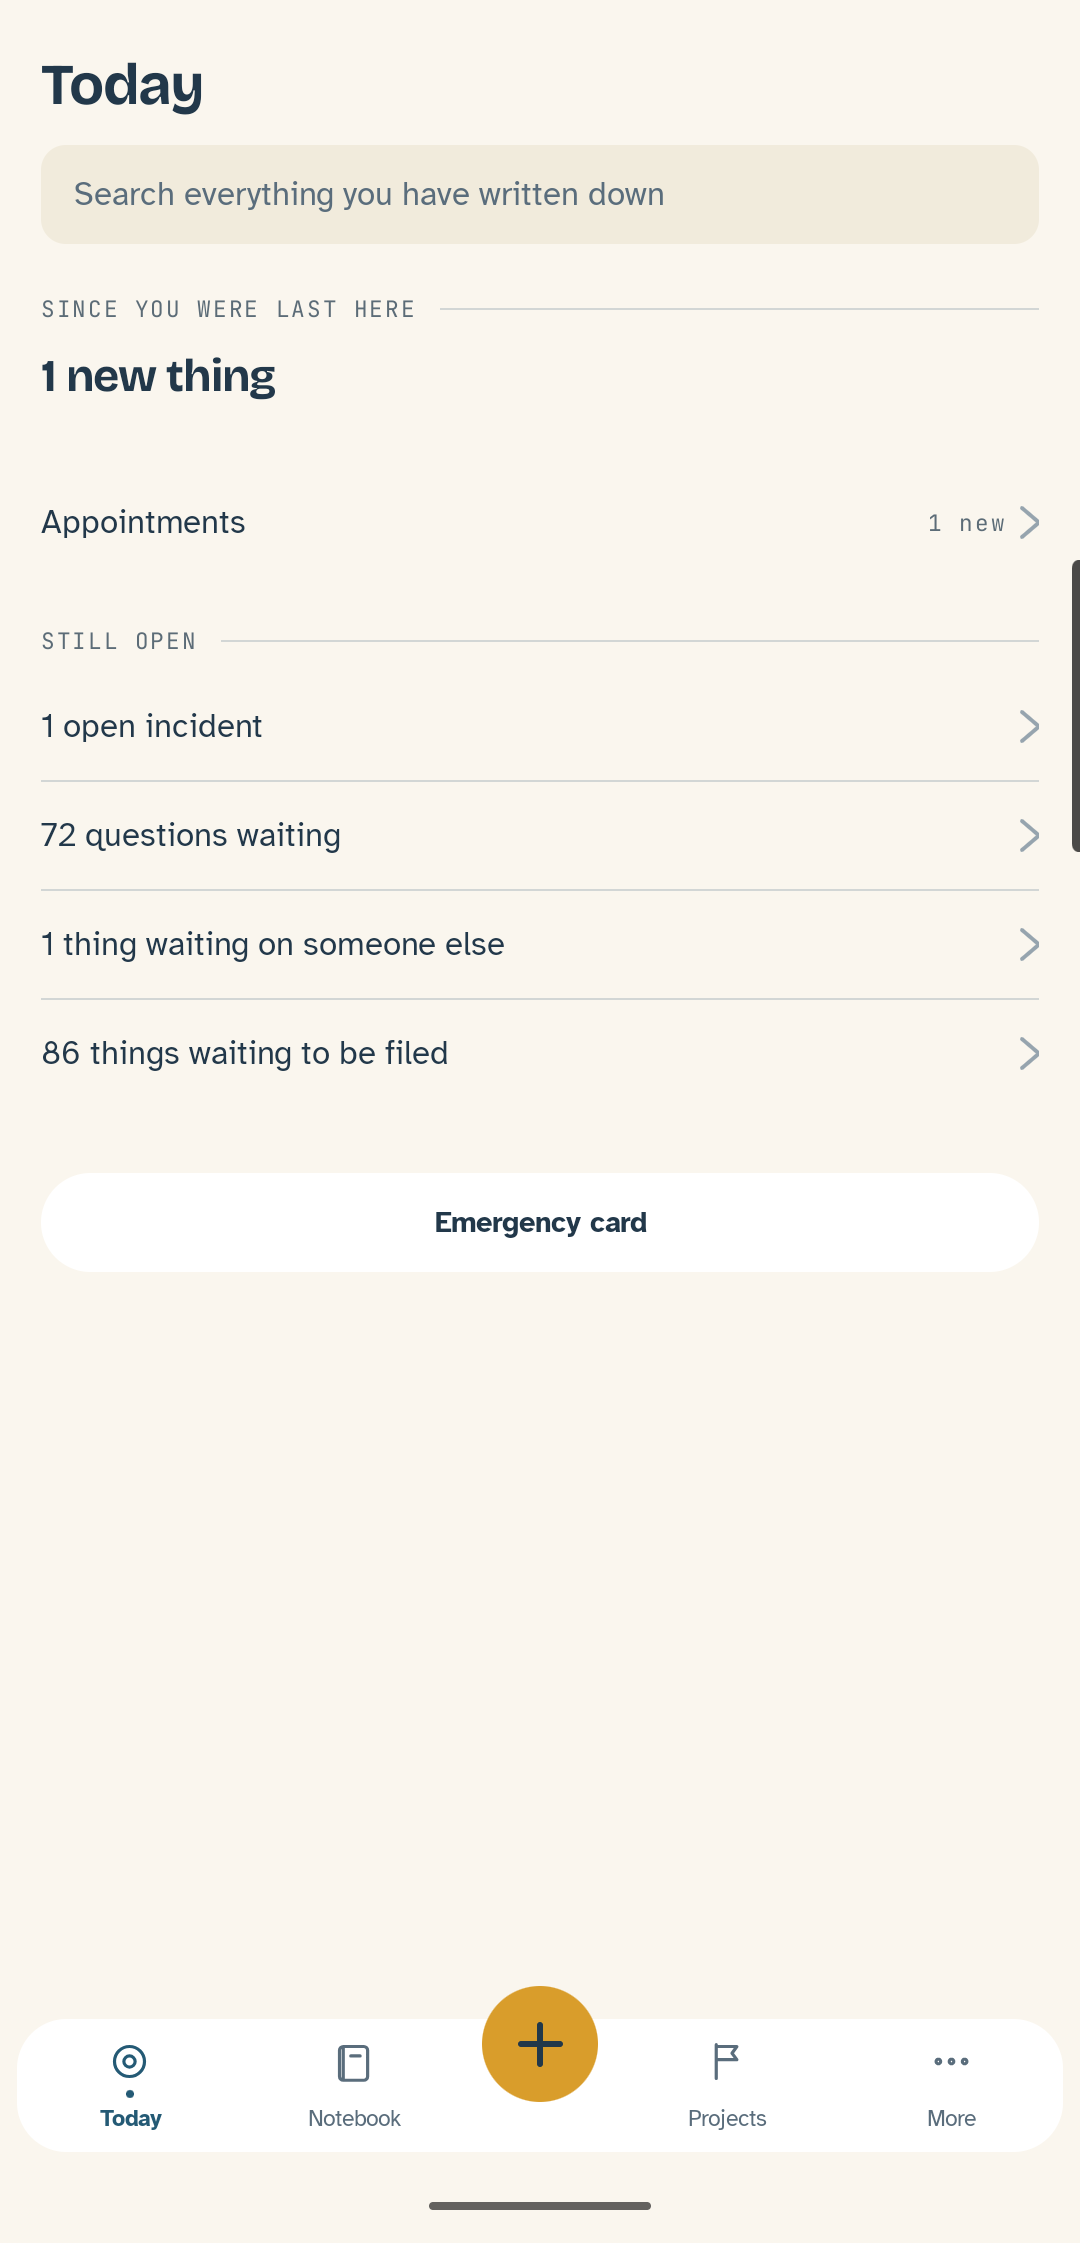
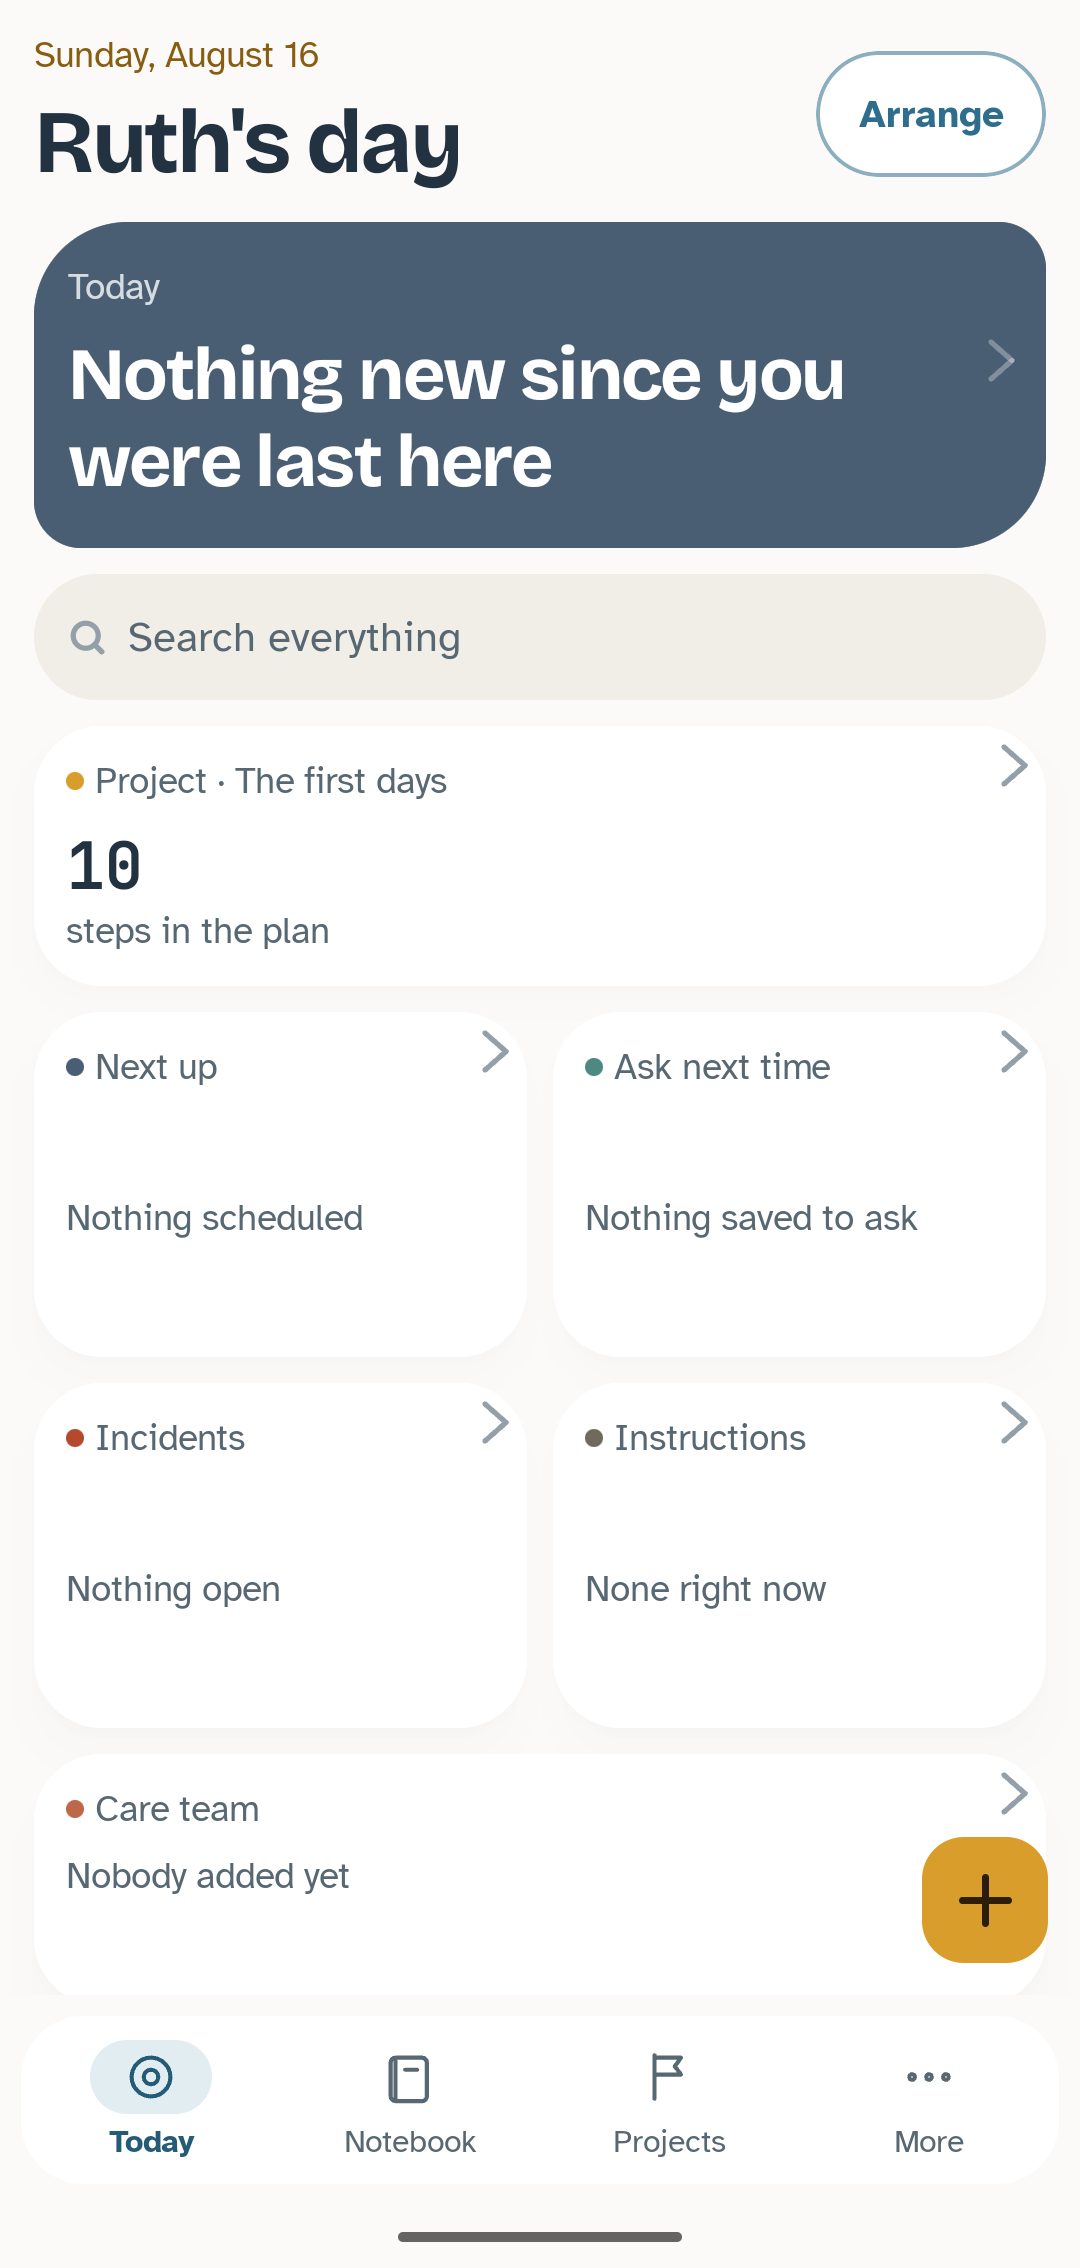
The lead is one saturated block and everything under it goes quiet
D172. The mockups were approved and then not consulted, and three rounds
of guessing followed. Read back against them, the differences were
structural rather than fine.

The lead is the section base with white type on it, not a pale wash.
D170 argued a saturated fill would cost readability; that was reasoned
rather than looked at, and the approved hero is a solid block precisely
because of it. White on slate is past 7:1, better than the ink on wash it
replaces. The eighteen call sites inside the answer body flip by
providing a recolored palette for the subtree instead, since the colors
are already a composition local, so the chart line and the dial pill come
along without learning about the hero.

One saturated block is also what fixes the rainbow: six tinted cards of
equal weight gave the eye nowhere to land, so the tint belongs to
whichever card leads and the rest are white with a small hue dot.

Gold does not survive at that size. It is an accent, correct on a chip,
an icon and the capture button, and a mustard slab across the largest
block on the screen. A whole-app card promoted to the lead wears slate
there. A section's card keeps its own hue, because that is identity.

Small cards were square, which is a little over two hundred dp on a
phone, so "Nothing scheduled" sat in the middle of an empty white field
with a hand's width of nothing above and below. Four at once was most of
the screen. The tile takes the mockup's proportion instead.
[…]

diff --git a/android/app/src/main/kotlin/com/kamsiob/healthtrail/ui/components/TodayLead.kt b/android/app/src/main/kotlin/com/kamsiob/healthtrail/ui/components/TodayLead.kt
@@ -11,6 +11,7 @@ import androidx.compose.foundation.layout.sizeIn
 import androidx.compose.foundation.layout.width
 import androidx.compose.material3.Text
 import androidx.compose.runtime.Composable
+import androidx.compose.runtime.CompositionLocalProvider
 import androidx.compose.ui.Alignment
 import androidx.compose.ui.Modifier
 import androidx.compose.ui.draw.clip
@@ -20,6 +21,8 @@ import androidx.compose.ui.semantics.contentDescription
 import androidx.compose.ui.semantics.semantics
 import com.kamsiob.healthtrail.i18n.LocalStrings
 import com.kamsiob.healthtrail.ui.theme.HealthTrail
+import com.kamsiob.healthtrail.ui.theme.LocalHealthTrailColors
+import com.kamsiob.healthtrail.ui.theme.onHue
 import com.kamsiob.healthtrail.ui.theme.Radius
 import com.kamsiob.healthtrail.ui.theme.Space
 import com.kamsiob.healthtrail.ui.theme.TabHue
@@ -113,26 +116,31 @@ fun TodayLead(
     val colors = HealthTrail.colors
     val strings = LocalStrings.current
 
-    // **The lead is a block of color with a shape of its own.** D170, and this
-    // is the structural half of the redesign: it was transparent, so the one
-    // thing the screen leads with looked like a paragraph that happened to be
-    // first. It is the section's own wash now, at the hero shape, which is the
-    // only place in the app that corner treatment appears. Nothing else on
-    // Today can be mistaken for it.
+    // **The lead is a block of saturated color with a shape of its own.** D172,
+    // and this is the whole hierarchy of the screen in one decision. It was
+    // transparent, then a pale wash, and both times the thing the screen leads
+    // with read as a paragraph that happened to be first.
     //
-    // **The wash rather than the base**, because the answer inside it is the
-    // person's own words and has to stay black on light. A saturated fill
-    // would make every lead a white-on-color plaque and cost the readability
-    // this app is built around.
+    // **The base rather than the wash**, which reverses D170's reasoning. That
+    // note argued a saturated fill would cost readability, and it was written
+    // without looking at the approved mockup, which is a solid block with white
+    // type and was approved precisely because of it. The readability worry is
+    // answered by [onHue] rather than by staying pale: white on `#2E6D8C` is
+    // past 7:1, better than the ink-on-wash it replaces.
+    //
+    // **One saturated block and everything below it quiet** is also what fixes
+    // the rainbow. Six tinted cards of equal weight gave the eye nowhere to
+    // land; the tint belongs to whichever card leads, and the rest are white.
+    val leadColors = colors.onHue(hue)
     Column(
         modifier = modifier
             .fillMaxWidth()
             .clip(Radius.hero)
-            .background(hue.wash)
+            .background(hue.base)
             .openableByTap(
                 label = openLabel,
                 onTap = onOpen,
-                resting = hue.wash,
+                resting = hue.base,
                 shape = Radius.hero,
                 // long-press-twin: Today's Arrange action, per the parameter above.
                 onLongPress = onLongPress,
@@ -143,6 +151,9 @@ fun TodayLead(
             .semantics { contentDescription = description }
             .padding(horizontal = Space.cardPadding, vertical = Space.m),
     ) {
+      // Everything inside the block reads against the block, including the
+      // chart line and the dial pill, neither of which takes a color argument.
+      CompositionLocalProvider(LocalHealthTrailColors provides leadColors) {
         Column(
             // Silenced rather than cleared away, exactly as `TodayCard` does
             // it, and given up in edit mode for the same reason: the controls
@@ -157,7 +168,7 @@ fun TodayLead(
             Text(
                 text = eyebrow,
                 style = HealthTrail.type.bodyS,
-                color = hue.ink,
+                color = leadColors.ink2,
             )
             Spacer(Modifier.height(Space.s))
             Row(
@@ -174,5 +185,6 @@ fun TodayLead(
             }
         }
         action?.invoke()
+      }
     }
 }

diff --git a/android/app/src/main/kotlin/com/kamsiob/healthtrail/ui/screens/TodayFieldScreen.kt b/android/app/src/main/kotlin/com/kamsiob/healthtrail/ui/screens/TodayFieldScreen.kt
@@ -468,9 +468,17 @@ fun TodayFieldScreen(
                         // tokens could not deliver: new color and new type on
                         // an old arrangement is still the old screen.
                         Column(modifier = Modifier.weight(1f)) {
+                            // **Two faces on this screen, not three.** D172. The
+                            // date was set in the mono face, which put a
+                            // typewriter line directly above a display-weight
+                            // sans name and a body-face sentence under that.
+                            // The owner's words were that the fonts do not mix
+                            // well, and this was where it was worst: mono is for
+                            // figures that must line up in a column, and a date
+                            // in a masthead is prose.
                             Text(
                                 text = EventDateText.masthead(strings, today),
-                                style = HealthTrail.type.mono,
+                                style = HealthTrail.type.bodyS,
                                 color = HealthTrail.colors.goldInk,
                             )
                             Spacer(Modifier.height(Space.xs))
@@ -849,7 +857,7 @@ private fun LeadSlot(
 
     TodayLead(
         eyebrow = eyebrow,
-        hue = hueForCard(card.type),
+        hue = leadHue(hueForCard(card.type)),
         // **Raw parts, joined once.** Bidi.join isolates every part it is
         // given, so handing it a string that was already joined wraps the whole
         // thing again and the marks nest.
@@ -2094,6 +2102,27 @@ internal fun hueForCard(type: String): TabHue = when (type) {
     // section, so gold and the base ladder. 4.3.
     else -> wholeAppHue()
 }
+
+/**
+ * The lead's hue, which is not always the card's. D172.
+ *
+ * **Gold is an accent color and the lead is a field.** It works at the size of a
+ * tab chip, an icon and the capture button, which is everywhere else it appears.
+ * Filled across the largest block on the screen it is a mustard slab, and the
+ * owner had already said the yellow background was off-putting once, about the
+ * mockups, before this made it four times the size.
+ *
+ * **So a whole-app card promoted to the lead wears slate there.** Slate is the
+ * calm blue the approved mockup leads with, and it is the only substitution: a
+ * section's card keeps its own hue, because that hue is identity and 21.2 does
+ * not bend for where the card happens to sit.
+ *
+ * **The card's own tab dot stays gold**, so nothing is lost about what the card
+ * belongs to; it is stated at the size the color works at.
+ */
+@Composable
+private fun leadHue(hue: TabHue): TabHue =
+    if (hue == wholeAppHue()) hueFor(Repository.Section.APPOINTMENTS) else hue
 
 /**
  * What a care team card says while its source is still being chosen.

diff --git a/android/app/src/main/kotlin/com/kamsiob/healthtrail/ui/theme/Color.kt b/android/app/src/main/kotlin/com/kamsiob/healthtrail/ui/theme/Color.kt
@@ -2,6 +2,7 @@ package com.kamsiob.healthtrail.ui.theme
 
 import androidx.compose.runtime.Immutable
 import androidx.compose.ui.graphics.Color
+import androidx.compose.ui.graphics.luminance
 
 /**
  * The color tokens from DESIGN.md sections 4.1 through 4.6, at their exact
@@ -152,7 +153,55 @@ data class TabHue(
     val base: Color,
     val ink: Color,
     val wash: Color,
-)
+) {
+    /**
+     * What text on top of [base] is colored.
+     *
+     * **Computed rather than declared**, because it is not a design choice: it
+     * is whichever of near-white or near-black clears contrast against the base
+     * this pack already has. Declaring it would mean twelve more constructor
+     * arguments that could each be got wrong, and the right answer is a
+     * function of a value already present.
+     *
+     * Light theme bases are mid-dark and take white. Dark theme bases are
+     * pastels and take the dark canvas back. The luminance test says both
+     * without the theme having to be consulted.
+     */
+    val onBase: Color
+        get() = if (base.luminance() > ON_BASE_PIVOT) Color(0xFF141C23) else Color(0xFFFFFFFF)
+}
+
+/** Above this the base is light enough that dark text is the readable choice. */
+private const val ON_BASE_PIVOT = 0.45f
+
+/**
+ * The palette as it reads *inside* a block of saturated hue. D172.
+ *
+ * **The approved mockup's hero is a solid color with white type on it**, not a
+ * pale wash, and that one saturated block is what gave the screen a place for
+ * the eye to land. Rebuilding it meant every piece of text, chip, hairline and
+ * chart line inside the hero had to flip, and those are written against
+ * `HealthTrail.colors` in eighteen places across the answer body alone.
+ *
+ * **So the palette flips instead of the call sites.** The colors are a
+ * composition local, so providing this copy for the hero's subtree recolors
+ * everything inside it coherently, including components that have never heard
+ * of the hero and never will. Nothing downstream needs a parameter.
+ *
+ * The alpha steps mirror the ordinary ink ladder: full strength for primary,
+ * a step down for secondary, and a non-text value for hairlines.
+ */
+fun HealthTrailColors.onHue(hue: TabHue): HealthTrailColors {
+    val on = hue.onBase
+    return copy(
+        paper = hue.base,
+        sand = on.copy(alpha = 0.10f),
+        card = on.copy(alpha = 0.16f),
+        ink = on,
+        ink2 = on.copy(alpha = 0.78f),
+        ink3 = on.copy(alpha = 0.30f),
+    )
+}
 
 /**
  * Light theme, DESIGN.md 4.1 through 4.3.

diff --git a/android/app/src/main/kotlin/com/kamsiob/healthtrail/ui/components/TodayCard.kt b/android/app/src/main/kotlin/com/kamsiob/healthtrail/ui/components/TodayCard.kt
@@ -123,13 +123,30 @@ private fun Modifier.atLeastSquare(): Modifier = layout { measurable, constraint
     // it would ask for an infinite card. The grid always gives a real width, so
     // this never fires today; it is here because the day it does fire is a
     // crash rather than a wrong shape.
+    // **Shorter than square**, D172. A square small card is a little over two
+    // hundred dp tall on a phone, and the honest answer in one is three words:
+    // "Nothing scheduled" sat in the middle of an empty white field with a
+    // hand's width of nothing above and below it. That is not calm, it is
+    // unfinished, and four of them at once was most of what the screen was.
+    //
+    // **The proportion is the approved mockup's**, whose count tiles are 120dp
+    // against a 170dp width. This keeps the tile a tile rather than letting it
+    // collapse to a row, and lets a card with a real answer in it grow past the
+    // minimum as it always could.
     val bounded = constraints.hasBoundedWidth
-    val square = if (bounded) constraints.maxWidth.coerceAtMost(constraints.maxHeight) else 0
+    val tile = if (bounded) {
+        (constraints.maxWidth * TILE_HEIGHT_RATIO).toInt().coerceAtMost(constraints.maxHeight)
+    } else {
+        0
+    }
     val placeable = measurable.measure(
-        constraints.copy(minHeight = square.coerceAtLeast(constraints.minHeight)),
+        constraints.copy(minHeight = tile.coerceAtLeast(constraints.minHeight)),
     )
     layout(placeable.width, placeable.height) { placeable.place(0, 0) }
 }
+
+/** The approved mockup's tile: 120dp tall against a 170dp column. */
+private const val TILE_HEIGHT_RATIO = 0.70f
 
 /**
  * One card on Today. `DESIGN.md` 21.2.
